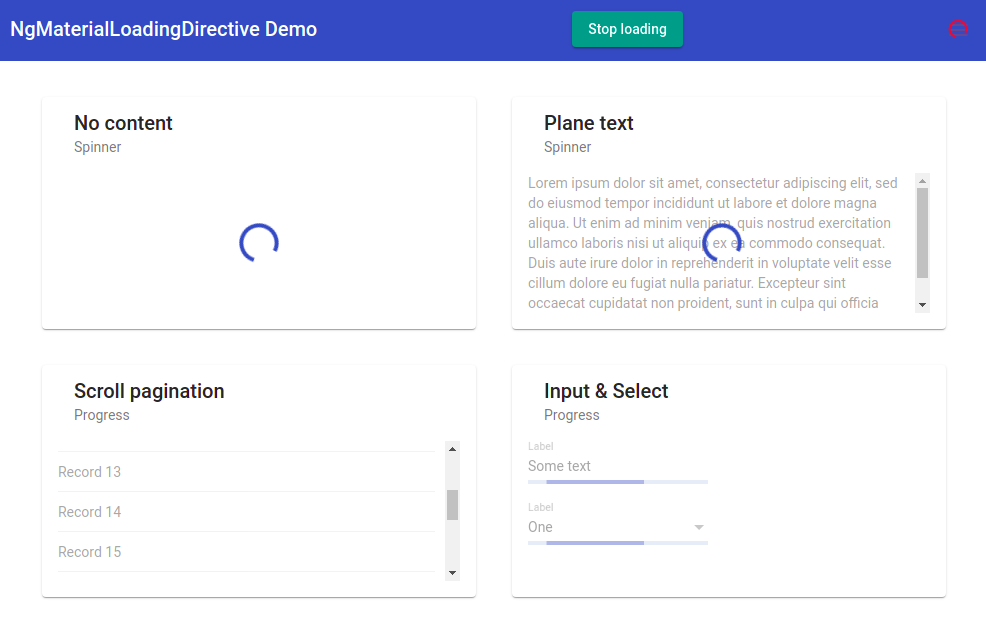
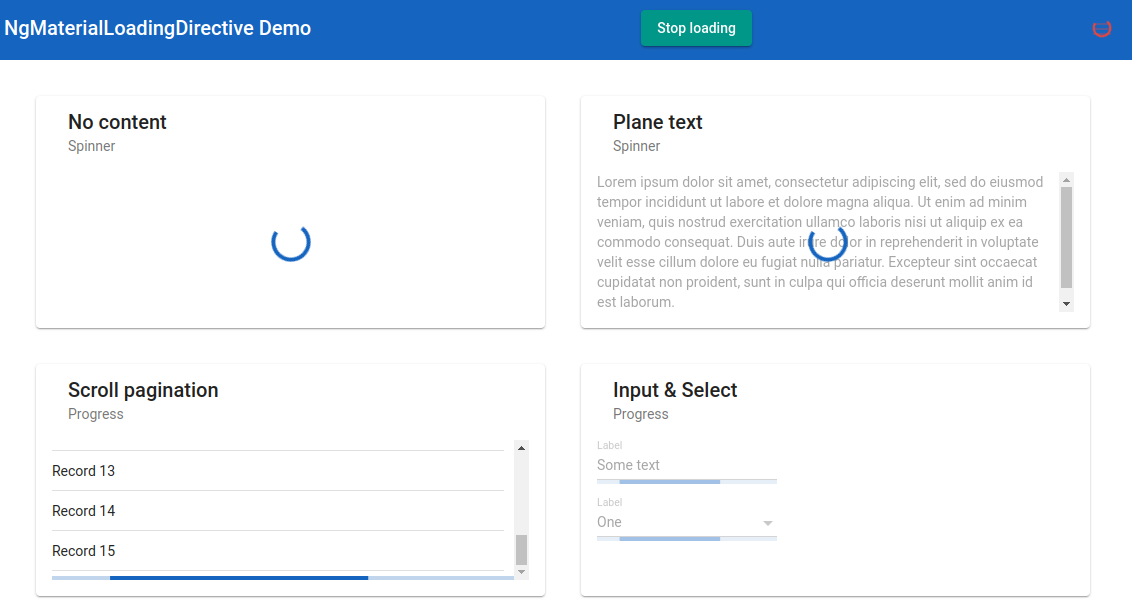
Add non-freezing mode for loading content

diff --git a/projects/ng-material-loading/src/lib/ng-material-loading.directive.ts b/projects/ng-material-loading/src/lib/ng-material-loading.directive.ts
@@ -34,6 +34,10 @@ export class NgMaterialLoadingDirective implements OnInit, OnDestroy {
     this.config.diameter = coerceNumberProperty(value);
   }
 
+  @Input() set ngMatLoadingFreeze(value: boolean) {
+    this.config.freeze = coerceBooleanProperty(value);
+  }
+
   @Input() set ngMatLoadingColor(value: 'primary' | 'warn' | 'accent') {
     this.config.color = value;
   }
@@ -42,7 +46,7 @@ export class NgMaterialLoadingDirective implements OnInit, OnDestroy {
     this.config.type = value;
   }
 
-  @Input() attacheTo: string;
+  @Input() ngMatLoadingAttacheTo: string;
 
   @Input() set ngMatLoading(value: boolean) {
     const ngMatLoading = coerceBooleanProperty(value);
@@ -111,6 +115,7 @@ export class NgMaterialLoadingDirective implements OnInit, OnDestroy {
       attacheTo: {
         'mat-form-field': '.mat-form-field-wrapper'
       },
+      freeze: true,
       ...this.ngMatLoadingConfig
     };
   }
@@ -150,6 +155,7 @@ export class NgMaterialLoadingDirective implements OnInit, OnDestroy {
       (this.componentRef.instance as MatSpinner).diameter = diameter;
     } else {
       this.componentRef.instance.mode = 'indeterminate';
+      this.renderer.setStyle(this.elRef.nativeElement, 'min-height', '4px');
     }
 
     this.loadingElement = this.compRef._elementRef.nativeElement;
@@ -157,8 +163,10 @@ export class NgMaterialLoadingDirective implements OnInit, OnDestroy {
     this.prevHostPosition = this.elRef.nativeElement.style.position;
     this.renderer.setStyle(this.elRef.nativeElement, 'position', 'relative');
 
-    this.prevHostPointerEvents = this.elRef.nativeElement.style.pointerEvents;
-    this.renderer.setStyle(this.elRef.nativeElement, 'pointer-events', 'none');
+    if (this.config.freeze) {
+      this.prevHostPointerEvents = this.elRef.nativeElement.style.pointerEvents;
+      this.renderer.setStyle(this.elRef.nativeElement, 'pointer-events', 'none');
+    }
 
     this.executeOnStableZone(() => {
       this.renderer.appendChild(
@@ -166,9 +174,7 @@ export class NgMaterialLoadingDirective implements OnInit, OnDestroy {
         this.loadingElement
       );
 
-      if (this.config.type === 'spinner') {
-        this.renderer.setStyle(this.loadingElement, 'position', 'absolute');
-      }
+      this.renderer.setStyle(this.loadingElement, 'position', 'absolute');
 
       this.renderer.setStyle(
         this.loadingElement,
@@ -178,7 +184,7 @@ export class NgMaterialLoadingDirective implements OnInit, OnDestroy {
       this.renderer.setStyle(
         this.loadingElement,
         'bottom',
-        this.config.type === 'spinner' ? `calc((100% - ${diameter}px) / 2)` : '0px'
+        this.config.type === 'spinner' ? `calc((100% - ${diameter}px) / 2)` : 'unset'
       );
       this.renderer.setStyle(this.loadingElement, 'width', 'unset');
 
@@ -191,6 +197,7 @@ export class NgMaterialLoadingDirective implements OnInit, OnDestroy {
         );
       } else {
         this.renderer.setStyle(this.loadingElement, 'min-height', '4px');
+        this.renderer.setStyle(this.loadingElement, 'width', '100%');
       }
 
       (Array.from(this.elRef.nativeElement.children) as HTMLElement[]).forEach(
@@ -212,9 +219,9 @@ export class NgMaterialLoadingDirective implements OnInit, OnDestroy {
         }
       );
 
-      let attacheTo = this.attacheTo;
+      let attacheTo = this.ngMatLoadingAttacheTo;
 
-      if (!this.attacheTo && this.config.attacheTo) {
+      if (!attacheTo && this.config.attacheTo) {
         attacheTo = this.config.attacheTo[this.elRef.nativeElement.tagName.toLocaleLowerCase()];
       }
 
@@ -237,7 +244,10 @@ export class NgMaterialLoadingDirective implements OnInit, OnDestroy {
     }
 
     this.renderer.removeStyle(this.elRef.nativeElement, 'position');
-    this.renderer.removeStyle(this.elRef.nativeElement, 'pointer-events');
+
+    if (this.config.freeze) {
+      this.renderer.removeStyle(this.elRef.nativeElement, 'pointer-events');
+    }
 
     if (this.prevHostPosition) {
       this.renderer.setStyle(
@@ -250,7 +260,7 @@ export class NgMaterialLoadingDirective implements OnInit, OnDestroy {
     if (this.prevHostPointerEvents) {
       this.renderer.setStyle(
         this.elRef.nativeElement,
-        'position',
+        'pointer-events',
         this.prevHostPointerEvents
       );
     }

diff --git a/src/app/app.component.html b/src/app/app.component.html
@@ -43,7 +43,11 @@
       <mat-card-subtitle>Progress</mat-card-subtitle>
     </mat-card-header>
 
-    <mat-card-content #recordsContainer [ngMatLoading]="recordsLoading$ | async" ngMatLoadingType="progress">
+    <mat-card-content #recordsContainer
+      [ngMatLoading]="recordsLoading$ | async"
+      ngMatLoadingType="progress"
+      [ngMatLoadingContentOpacity]="1"
+      [ngMatLoadingFreeze]="false">
       <div *ngFor="let record of (records$ | async)" class="record">
         <div>{{ record }}</div>
         <mat-divider></mat-divider>

diff --git a/src/app/app.component.ts b/src/app/app.component.ts
@@ -30,9 +30,7 @@ export class AppComponent implements AfterViewInit, OnDestroy {
 
   private unsubscribe$ = new Subject<void>();
 
-  constructor(private formBuilder: FormBuilder) {
-    console.log(this);
-  }
+  constructor(private formBuilder: FormBuilder) {}
 
   ngAfterViewInit(): void {
     fromEvent(this.recordsContainer.nativeElement, 'scroll')

diff --git a/projects/ng-material-loading/src/lib/ng-material-loading.types.ts b/projects/ng-material-loading/src/lib/ng-material-loading.types.ts
@@ -3,5 +3,6 @@ export interface NgMatLoadingConfig {
   diameter?: number;
   color?: 'primary' | 'warn' | 'accent';
   type?: 'spinner' | 'progress';
+  freeze?: boolean;
   attacheTo?: { [key: string]: string; } // host to target map
 }

diff --git a/README.md b/README.md
@@ -52,16 +52,16 @@ or
   </mat-card>
 ```
 
-## Options
+### Options
 
-
-| Option            | Type                           | Default                        | Description                                                                |
-| ----------------- | ------------------------------ | ------------------------------ | -------------------------------------------------------------------------- |
-| opacity           | number                         | 0.3                            | Content opacity when the loading indicator is imposed                      |
-| diameter          | number                         | 40                             | Spinner diameter in pixels                                                 |
-| color             | 'primary' | 'warn' | 'accent'  | 'primary'                      | Loading indicator color                                                    |
-| type              | 'spinner' | 'progress'         | 'spinner'                      | Time to close after a user hovers over toast                               |
-| attacheTo         | string                         | null                           | Selector of HTML element to which the loadinf indicator should be attached |
+| Option                     | Type                           | Default                        | Description                                                                |
+| -------------------------- | ------------------------------ | ------------------------------ | -------------------------------------------------------------------------- |
+| ngMatLoadingContentOpacity | number                         | 0.3                            | Content opacity when the loading indicator is imposed                      |
+| ngMatLoadingDiameter       | number                         | 40                             | Spinner diameter in pixels                                                 |
+| ngMatLoadingColor          | 'primary' | 'warn' | 'accent'  | 'primary'                      | Loading indicator color                                                    |
+| ngMatLoadingType           | 'spinner' | 'progress'         | 'spinner'                      | Time to close after a user hovers over toast                               |
+| ngMatLoadingAttacheTo      | string                         | null                           | Selector of HTML element to which the loadinf indicator should be attached |
+| ngMatLoadingFreeze         | boolean                        | true                           | Whether to make content inactive while loading                             |
 
 ## Configuration
 You can configure default ng-material-loading options:
@@ -76,11 +76,12 @@ NgMaterialLoadingModule.forRoot({
 The configuration interface looks like this:
 ```js
 export interface NgMatLoadingConfig {
-  opacity?: number; // Default content opacity when the loading indicator is imposed
-  diameter?: number; // Default spinner diameter in pixels
-  color?: 'primary' | 'warn' | 'accent'; // Default loading indicator color
-  type?: 'spinner' | 'progress'; // Default loading indicator type
+  opacity?: number; // Content opacity when the loading indicator is imposed
+  diameter?: number; // Spinner diameter in pixels
+  color?: 'primary' | 'warn' | 'accent'; //Loading indicator color
+  type?: 'spinner' | 'progress'; // Loading indicator type
   attacheTo?: { [key: string]: string; } // host to target map (see below)
+  freeze?: boolean; // Whether to make content inactive while loading
 }
 ```
 In ```attacheTo``` object you can list selector to which loading indicator should be attached for some commonly encountered host elements. 
